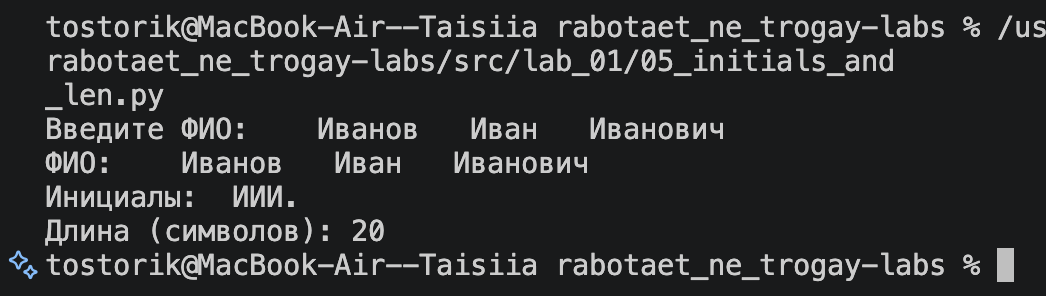
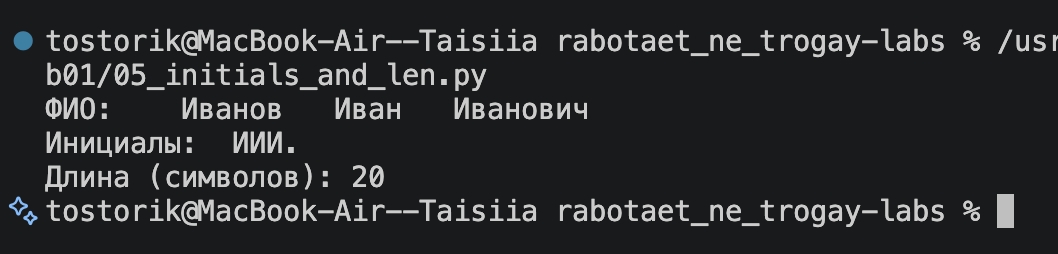
fix

diff --git a/src/lab01/05_initials_and_len.py b/src/lab01/05_initials_and_len.py
@@ -1,4 +1,4 @@
-fio = input('Введите ФИО: ')
+fio = input('ФИО: ')
 dl = len(fio.replace(' ', '')) + 2
 inic = fio[0]
 for i in range(len(fio)-1):
@@ -6,6 +6,5 @@ for i in range(len(fio)-1):
         if fio[i+1]!= ' ':
             inic+= fio[i+1]
             
-print(f"ФИО: {fio}")
 print(f'Инициалы: {inic.upper()}.')
 print(f'Длина (символов): {dl}')

diff --git a/src/lab01/06ex.py b/src/lab01/06ex.py
@@ -1,8 +1,8 @@
-n = int(input('Введите число:'))
+n = int(input('in_1:'))
 och = 0
 zaoch = 0
 for i in range(n):
-    vv_date = str(input('Введите данные:'))
+    vv_date = str(input(f'in_{i+2}:'))
     fa, im, v, form = vv_date.split()
     v = float(v)
     if form == 'True':
